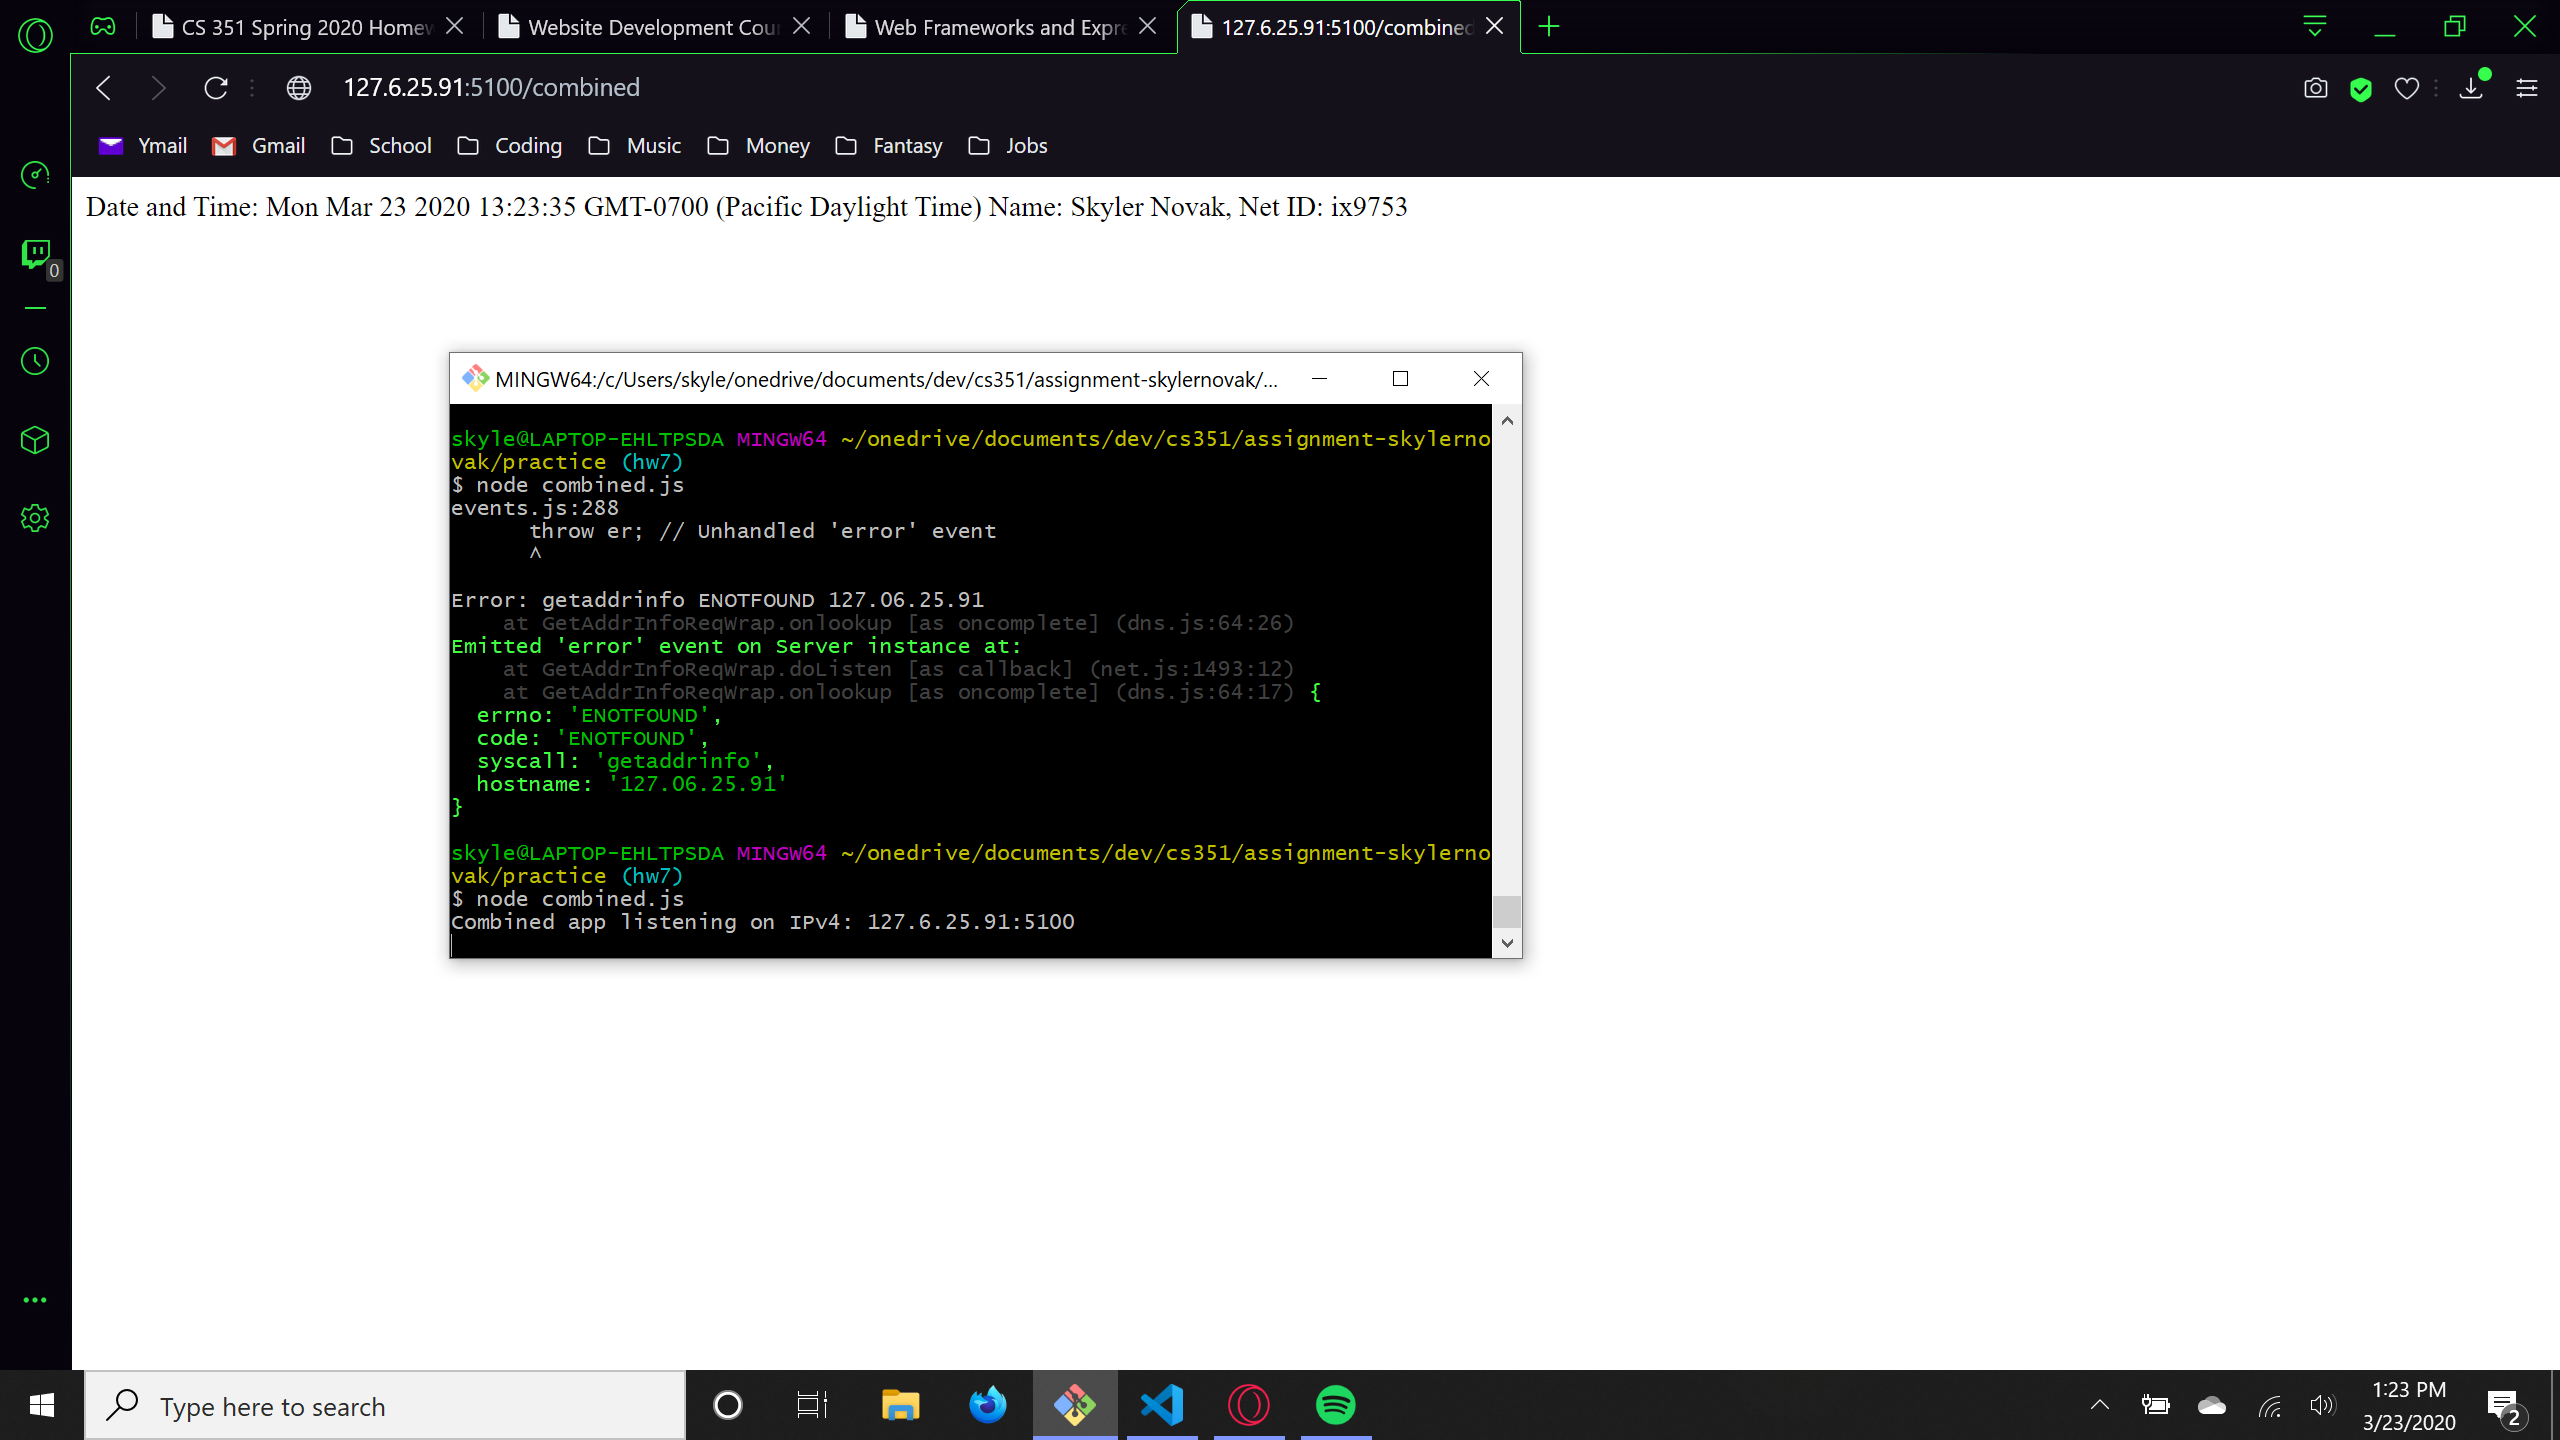
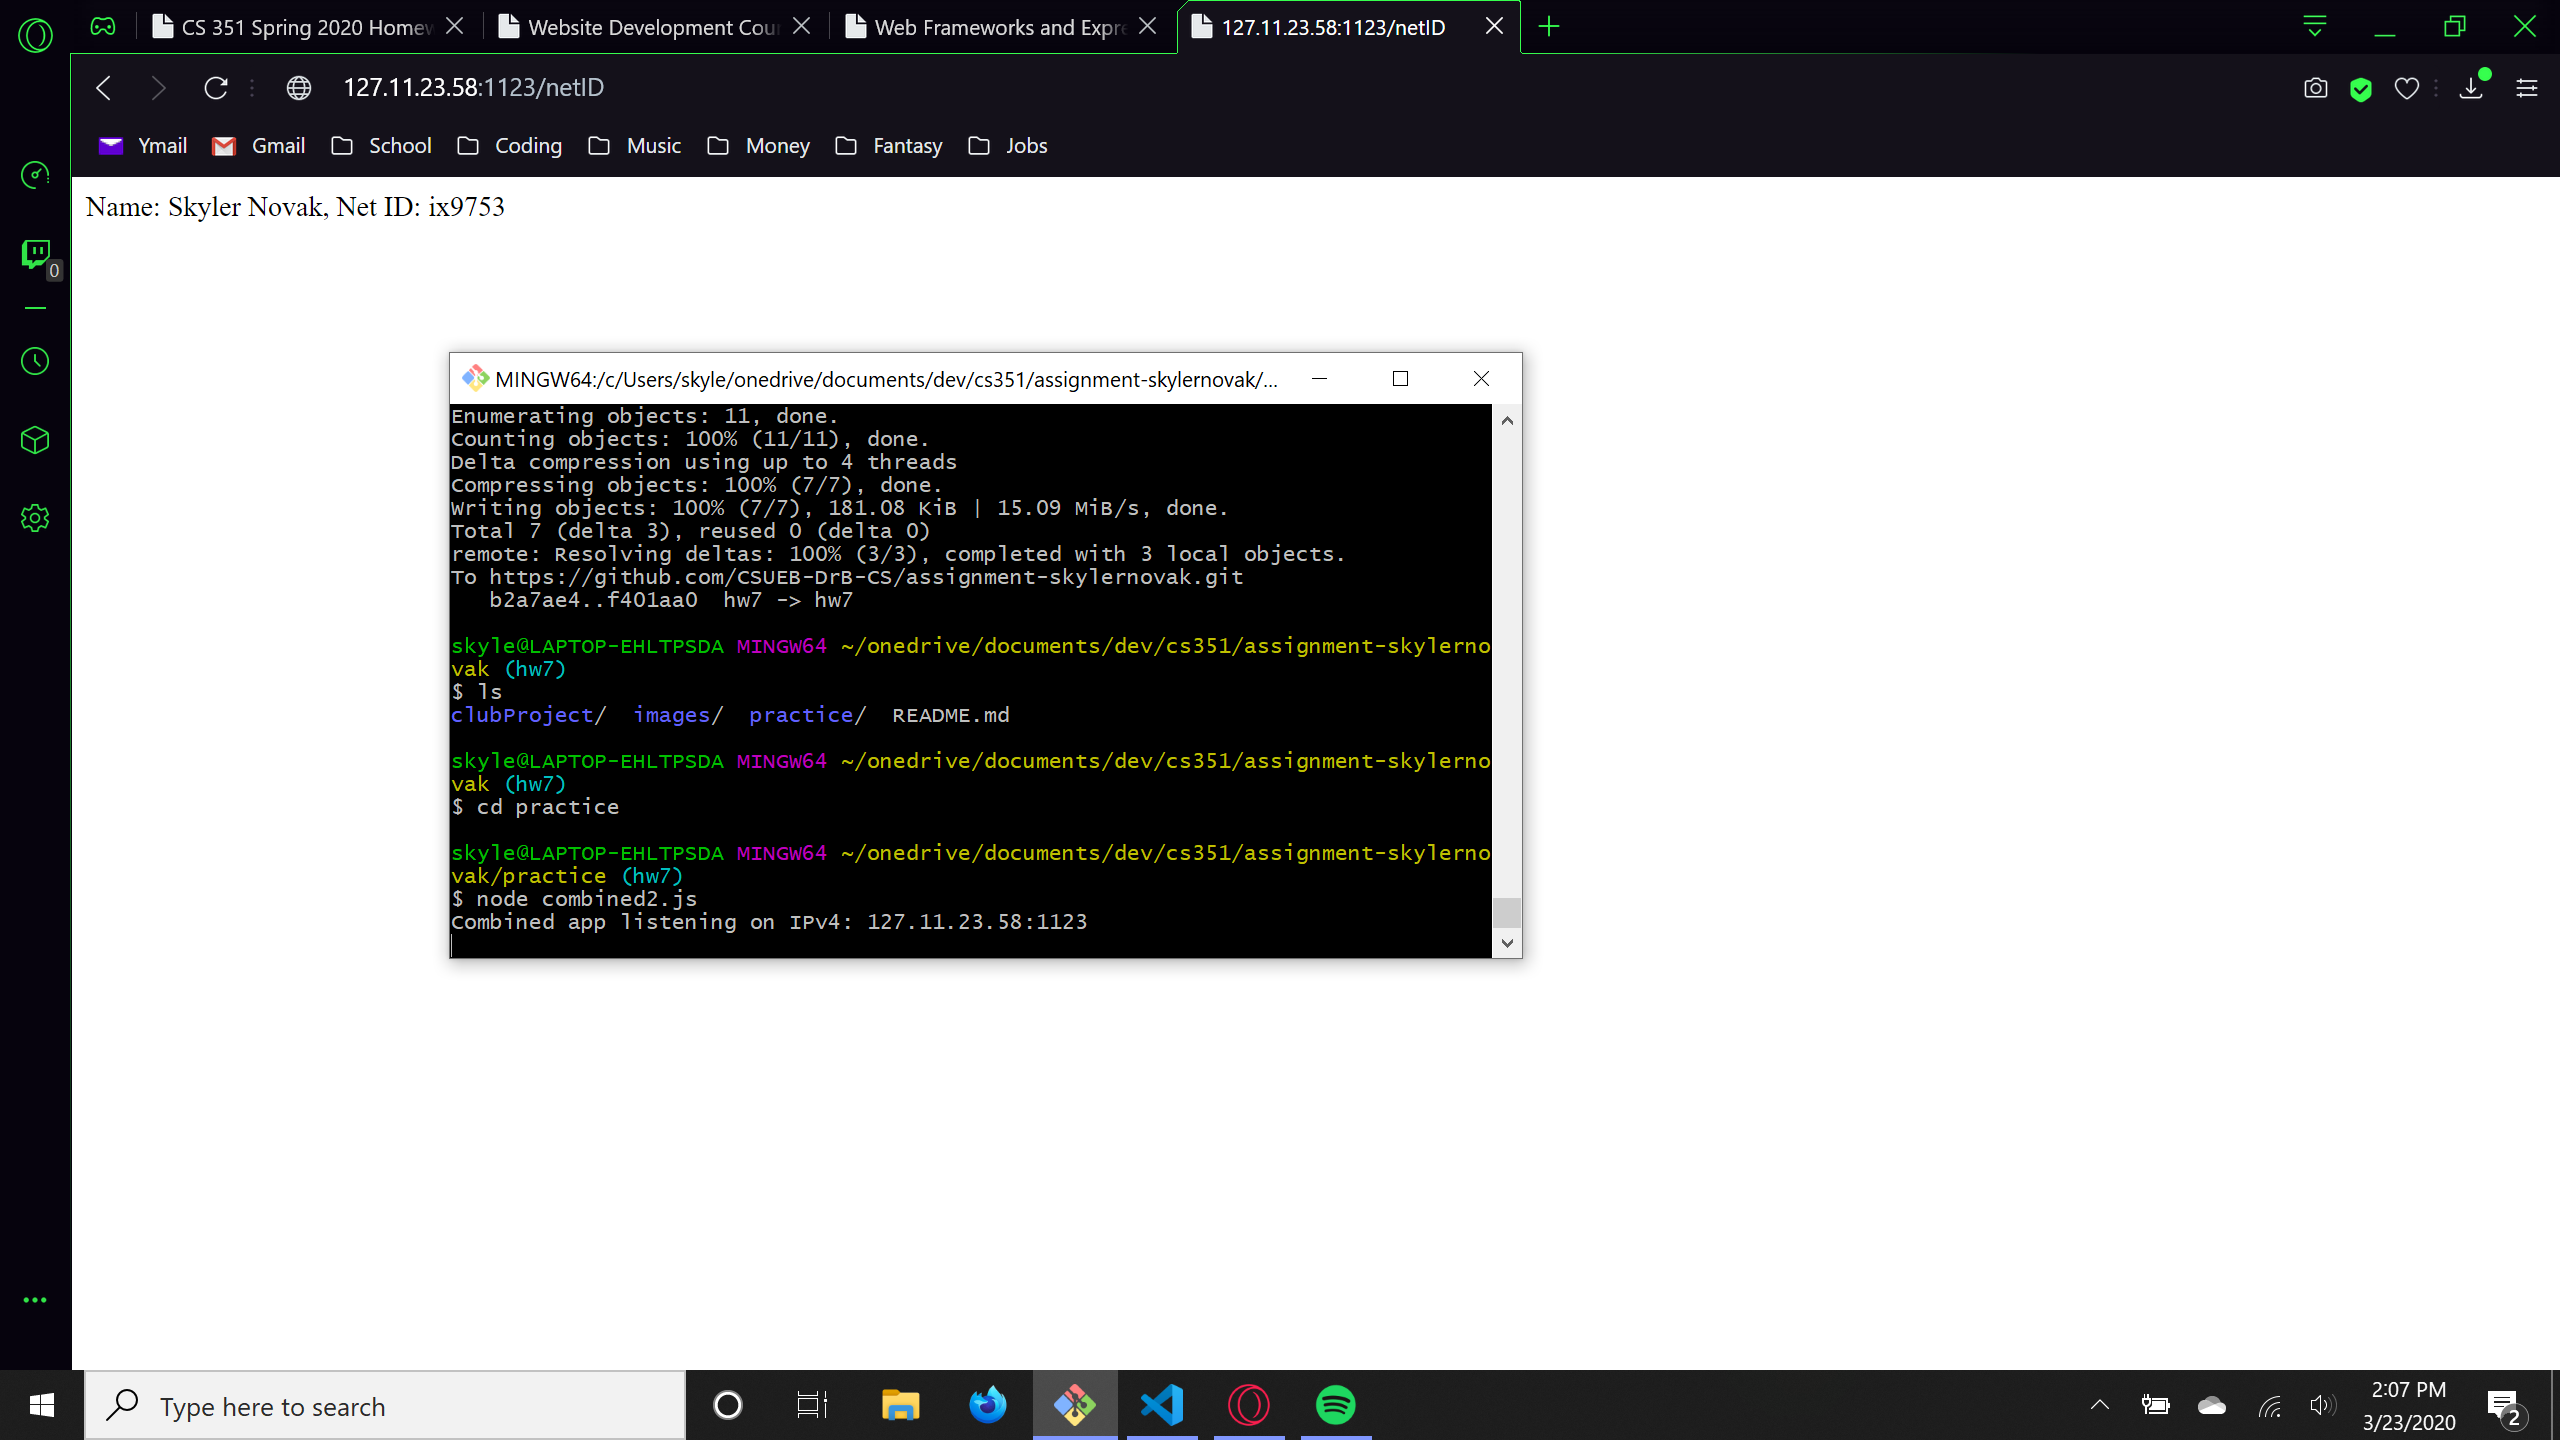
WIP Q5a

diff --git a/practice/combined3.js b/practice/combined3.js
@@ -1,0 +1,29 @@
+var express = require('express');
+var app = express();
+
+port = 1123; // Or anything you'd like
+host = '127.11.23.58'; // Any loopback address
+
+app.get('/', function (req, res) {
+    res.send('Hello World!');
+});
+
+app.get('/date', function (req, res) {
+    let myDate = new Date();
+    res.send('Date and Time: ' + myDate + '\nSkyler Novak');
+});
+
+app.get('/netID', function (req, res) {
+    let name = "Skyler Novak";
+    let id = "ix9753";
+    res.send('Name: ' + name + ', Net ID: ' + id);
+});
+
+app.listen(port, host, function () {
+    console.log('Combined app listening on IPv4: ' + host + ':' + port);
+});
+
+let testDate = new Date();
+
+console.log(testDate.toLocaleDateString());
+console.log(testDate.toLocaleTimeString());

diff --git a/practice/combinedTemplate.js b/practice/combinedTemplate.js
@@ -1,0 +1,23 @@
+var express = require('express');
+var app = express();
+const nunjucks = require('nunjucks');
+nunjucks.configure('views', {
+    autoescape: true,
+    express: app
+});
+
+port = 5200; // Or anything you'd like
+host = '127.10.24.60'; // Any loopback address
+
+let myDate = new Date();
+let thisDate = myDate.toLocaleDateString();
+let thisTime = myDate.toLocaleTimeString();
+let info = { date: thisDate, time: thisTime, name: "Skyler Novak", id: "ix9753" }
+
+app.get('/views', function (req, res) {
+    res.render('base.njk', info);
+});
+
+app.listen(port, host, function () {
+    console.log('Combined app listening on IPv4: ' + host + ':' + port);
+});

diff --git a/practice/combined2.js b/practice/combined2.js
@@ -1,0 +1,24 @@
+var express = require('express');
+var app = express();
+
+port = 1123; // Or anything you'd like
+host = '127.11.23.58'; // Any loopback address
+
+app.get('/', function (req, res) {
+    res.send('Hello World!');
+});
+
+app.get('/date', function (req, res) {
+    let myDate = new Date();
+    res.send('Date and Time: ' + myDate + '\nSkyler Novak');
+});
+
+app.get('/netID', function (req, res) {
+    let name = "Skyler Novak";
+    let id = "ix9753";
+    res.send('Name: ' + name + ', Net ID: ' + id);
+});
+
+app.listen(port, host, function () {
+    console.log('Combined app listening on IPv4: ' + host + ':' + port);
+});
